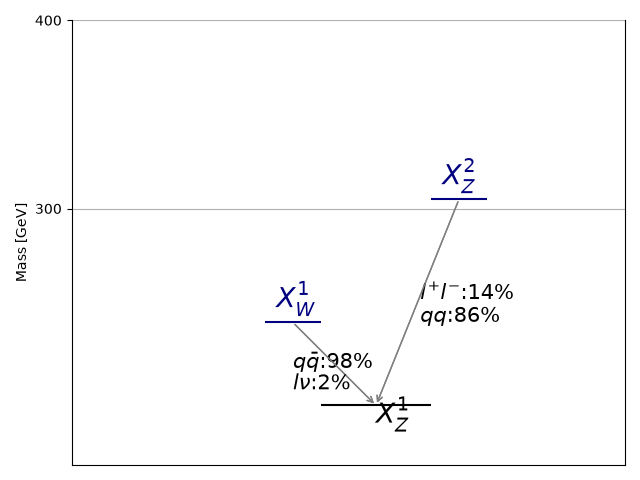
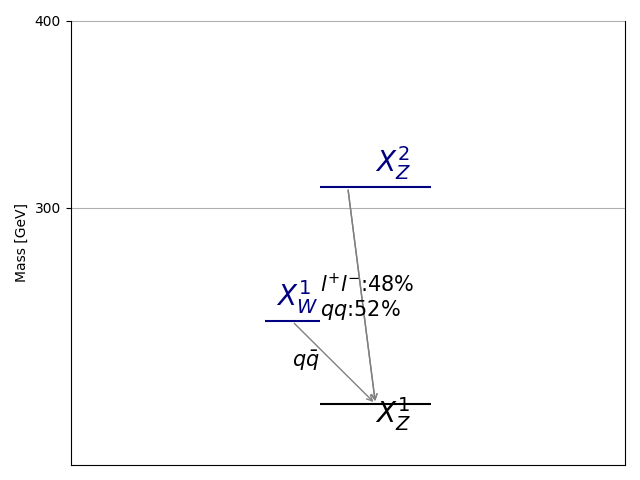
automated update by plotHiscore.py to rundir1_320:     K=-0.332 TL=15.52 walkerid=111

Changed region(s): [[0.0, 0.3125, 0.9688, 0.9062], [0.0625, 0.0312, 0.9688, 0.0625]]

diff --git a/protomodels/rundir1_320/rawnumbers.html b/protomodels/rundir1_320/rawnumbers.html
@@ -1,17 +1,11 @@
 <table>
 <tr><th>Analysis Name</th><th>Type</th><th>Dataset</th><th>Topos</th><th>Observed</th><th>Expected</th><th>Approx &sigma;</th><th>Particles</th>
 </tr>
-<tr><td><a href=https://atlas.web.cern.ch/Atlas/GROUPS/PHYSICS/PAPERS/EXOT-2018-06/>ATLAS-EXOT-2018-06</a></td><td>em</td> <td>EM10</td><td>TChiISR, TChiWISRll, TChiWWISRqq, TChiZISRqq</td><td>413</td><td>359.00 +/- 10.00</td><td style="text-align:right">2.5 &sigma;</td><td style="text-align:right">X<sup>1</sup><sub>W</sub>, X<sup>1</sup><sub>Z</sub></td></tr>
-<tr><td><a href=http://cms-results.web.cern.ch/cms-results/public-results/publications/EXO-20-004/>CMS-EXO-20-004</a></td><td>comb</td> <td>-</td><td>TChiISR, TChiWISRll, TChiWWISRqq, TChiZISRqq</td><td> 9e+01 fb </td><td> 7e+01 fb</td><td style="text-align:right">2.1 &sigma;</td><td style="text-align:right">X<sup>1</sup><sub>W</sub>, X<sup>1</sup><sub>Z</sub></td></tr>
+<tr><td><a href=https://atlas.web.cern.ch/Atlas/GROUPS/PHYSICS/PAPERS/EXOT-2018-06/>ATLAS-EXOT-2018-06</a></td><td>em</td> <td>EM10</td><td>TChiISR, TChiWISRll, TChiWWISRqq, TChiZISRqq</td><td>413</td><td>359.00 +/- 10.00</td><td style="text-align:right">2.5 &sigma;</td><td style="text-align:right">X<sup>1</sup><sub>W</sub>, X<sup>2</sup><sub>Z</sub>, X<sup>1</sup><sub>Z</sub></td></tr>
+<tr><td><a href=http://cms-results.web.cern.ch/cms-results/public-results/publications/EXO-20-004/>CMS-EXO-20-004</a></td><td>comb</td> <td>-</td><td>TChiISR, TChiWISRll, TChiWWISRqq, TChiZISRqq</td><td> 9e+01 fb </td><td> 7e+01 fb</td><td style="text-align:right">2.1 &sigma;</td><td style="text-align:right">X<sup>1</sup><sub>W</sub>, X<sup>2</sup><sub>Z</sub>, X<sup>1</sup><sub>Z</sub></td></tr>
 <tr><td><a href=https://atlas.web.cern.ch/Atlas/GROUPS/PHYSICS/PAPERS/SUSY-2016-07/>ATLAS-SUSY-2016-07</a></td><td>em</td> <td>2j_Meff_2100</td><td>T1</td><td>190</td><td>153.00 +/- 14.00</td><td style="text-align:right">1.9 &sigma;</td><td style="text-align:right">X<sup>1</sup><sub>W</sub>, X<sup>1</sup><sub>Z</sub></td></tr>
 <tr><td><a href=https://atlas.web.cern.ch/Atlas/GROUPS/PHYSICS/PAPERS/SUSY-2013-02/>ATLAS-SUSY-2013-02</a></td><td>em</td> <td>SR3j</td><td>T1</td><td>7</td><td>5.00 +/- 1.20</td><td style="text-align:right">0.7 &sigma;</td><td style="text-align:right">X<sup>1</sup><sub>W</sub>, X<sup>1</sup><sub>Z</sub></td></tr>
 <tr><td><a href=https://atlas.web.cern.ch/Atlas/GROUPS/PHYSICS/PAPERS/SUSY-2013-11/>ATLAS-SUSY-2013-11</a></td><td>em</td> <td>WWb-DF</td><td>TChiWWoff</td><td>17</td><td>18.10 +/- 2.60</td><td style="text-align:right">-0.3 &sigma;</td><td style="text-align:right">X<sup>1</sup><sub>W</sub>, X<sup>1</sup><sub>Z</sub></td></tr>
 </table>
 <table style='color:grey'>
-<tr><th>Not in Best Combo</th><th>Type</th><th>Dataset</th><th>Topos</th><th>Observed</th><th>Expected</th><th>Approx &sigma;</th><th>Particles</th><tr><td><a href=https://atlas.web.cern.ch/Atlas/GROUPS/PHYSICS/CONFNOTES/ATLAS-CONF-2013-047/>ATLAS-CONF-2013-047</a></td><td>em</td> <td>A Loose</td><td>T1</td><td>5333</td><td>4700.00 +/- 500.00</td><td style="text-align:right">1.2 &sigma;</td><td style="text-align:right">X<sup>2</sup><sub>Z</sub>, X<sup>1</sup><sub>Z</sub></td></tr>
-<tr><td><a href=http://cms-results.web.cern.ch/cms-results/public-results/publications/SUS-16-033/index.html>CMS-SUS-16-033</a></td><td>em</td> <td>SR1_Njet2_Nb0_H ...</td><td>T1</td><td>7838</td><td>7584.00 +/- 433.00</td><td style="text-align:right">0.6 &sigma;</td><td style="text-align:right">X<sup>2</sup><sub>Z</sub>, X<sup>1</sup><sub>Z</sub></td></tr>
-<tr><td><a href=https://atlas.web.cern.ch/Atlas/GROUPS/PHYSICS/CONFNOTES/ATLAS-CONF-2013-047/>ATLAS-CONF-2013-047</a></td><td>em</td> <td>C Medium</td><td>T1</td><td>228</td><td>210.00 +/- 40.00</td><td style="text-align:right">0.4 &sigma;</td><td style="text-align:right">X<sup>2</sup><sub>Z</sub>, X<sup>1</sup><sub>Z</sub></td></tr>
-<tr><td><a href=http://cms-results.web.cern.ch/cms-results/public-results/publications/SUS-19-006/index.html>CMS-SUS-19-006-agg</a></td><td>comb</td> <td>-</td><td>T1</td><td> 5 fb </td><td> 5 fb</td><td style="text-align:right">0.3 &sigma;</td><td style="text-align:right">X<sup>2</sup><sub>Z</sub>, X<sup>1</sup><sub>Z</sub></td></tr>
-<tr><td><a href=http://cms-results.web.cern.ch/cms-results/public-results/publications/SUS-16-033/index.html>CMS-SUS-16-033</a></td><td>em</td> <td>SR3_Njet5_Nb0_H ...</td><td>T1</td><td>819</td><td>806.00 +/- 57.00</td><td style="text-align:right">0.2 &sigma;</td><td style="text-align:right">X<sup>2</sup><sub>Z</sub>, X<sup>1</sup><sub>Z</sub></td></tr>
-<tr><td><a href=http://cms-results.web.cern.ch/cms-results/public-results/publications/SUS-16-033/index.html>CMS-SUS-16-033</a></td><td>em</td> <td>SR11_Njet7_Nb1_ ...</td><td>T1</td><td>890</td><td>969.00 +/- 80.00</td><td style="text-align:right">-0.9 &sigma;</td><td style="text-align:right">X<sup>2</sup><sub>Z</sub>, X<sup>1</sup><sub>Z</sub></td></tr>
-</table>
+<tr><th>Not in Best Combo</th><th>Type</th><th>Dataset</th><th>Topos</th><th>Observed</th><th>Expected</th><th>Approx &sigma;</th><th>Particles</th></table>

diff --git a/protomodels/rundir1_320/index.html b/protomodels/rundir1_320/index.html
@@ -1,27 +1,27 @@
 <html>
 <body>
 <center>
-<table><td><h1>Current best protomodel: <i>K</i>=4.90, <i>TL</i>=14.80</h1><td><img height=60px src=https://smodels.github.io//protomodels/logos/protomodel_lego.png></table>
+<table><td><h1>Current best protomodel: <i>K</i>=-0.33, <i>TL</i>=15.52</h1><td><img height=60px src=https://smodels.github.io//protomodels/logos/protomodel_lego.png></table>
 </center>
-<b><a href=./hiscore.slha>ProtoModel</a> <a href=./pmodel.dict>(dict)</a> produced with <a href=https://smodels.github.io//docs/Validation320>database v3.2.0</a>, allowed_extr 0.0 in walker 111 step 89.</b> <br>
+<b><a href=./hiscore.slha>ProtoModel</a> <a href=./pmodel.dict>(dict)</a> produced with <a href=https://smodels.github.io//docs/Validation320>database v3.2.0</a>, allowed_extr 0.0 in walker 111 step 127.</b> <br>
 <table width=80%>
 <tr><td>
 <br><b>Critics:</b> passed both critics<br>
-<br><b>UL Critic: 1/1 analyses exclude</b><br>
-ATLAS-EXOT-2018-06:EM5:: <span style='color: darkred;'>r<sub>obs</sub>=1.463, r<sub>exp</sub>=1.516</span><br>
-ATLAS-SUSY-2016-07:5j_Meff_1700:: <span style='color: darkgreen;'>r<sub>obs</sub>=0.475, r<sub>exp</sub>=0.632</span><br>
-CMS-EXO-20-004:SR_2018_13:: <span style='color: darkgreen;'>r<sub>obs</sub>=0.296, r<sub>exp</sub>=0.398</span><br>
-<br><b>LLHD Critic:</b> ATLAS-EXOT-2018-06:EM5, CMS-EXO-20-004:matrix.cov, ATLAS-SUSY-2016-07:5j_Meff_1700, ATLAS-SUSY-2013-02:SR4jlm:: <span style='color: darkred;'>r<sub>obs</sub>=1.21, r<sub>exp</sub>=2.47</span><br>
+<br><b>UL Critic: 1/2 analyses exclude</b><br>
+ATLAS-EXOT-2018-06:EM5:: <span style='color: darkred;'>r<sub>obs</sub>=1.403, r<sub>exp</sub>=1.453</span><br>
+ATLAS-SUSY-2016-07:5j_Meff_1700:: <span style='color: darkgreen;'>r<sub>obs</sub>=0.667, r<sub>exp</sub>=0.887</span><br>
+CMS-EXO-20-004:SR_2018_14:: <span style='color: darkgreen;'>r<sub>obs</sub>=0.317, r<sub>exp</sub>=0.405</span><br>
+<br><b>LLHD Critic:</b> ATLAS-EXOT-2018-06:EM5, CMS-EXO-20-004:matrix.cov, ATLAS-SUSY-2016-07:5j_Meff_1700, ATLAS-SUSY-2013-02:SR4jlm:: <span style='color: darkred;'>r<sub>obs</sub>=1.21, r<sub>exp</sub>=2.53</span><br>
 </ul>
-<td><img width=600px src=./texdoc.png?1792680986>
-<br><span style='font-size: smaller; color: darkred;'>Last updated: Thu Oct 22 16:56:26 2026</span>
-<br><br><b>11 predictions available. Highest r values are:</b><br><ul>
-<li><a href=https://atlas.web.cern.ch/Atlas/GROUPS/PHYSICS/PAPERS/EXOT-2018-06/>ATLAS-EXOT-2018-06</a>:EM5:TChiWISRll,TChiWWISRqq,TChiZISRqq,TChiISR r=1.46, r<sub>exp</sub>=1.52<br>
-<li><a href=https://atlas.web.cern.ch/Atlas/GROUPS/PHYSICS/PAPERS/SUSY-2016-07/>ATLAS-SUSY-2016-07</a>:5j_Meff_1700:T1 r=0.48, r<sub>exp</sub>=0.63<br>
-<li><a href=http://cms-results.web.cern.ch/cms-results/public-results/publications/EXO-20-004/>CMS-EXO-20-004</a>:SR_2018_13:TChiWISRll,TChiWWISRqq,TChiZISRqq,TChiISR r=0.30, r<sub>exp</sub>=0.40<br>
-<li><a href=https://atlas.web.cern.ch/Atlas/GROUPS/PHYSICS/PAPERS/SUSY-2013-02/>ATLAS-SUSY-2013-02</a>:ul:T1 r=0.07, r<sub>exp</sub>=N/A<br>
+<td><img width=600px src=./texdoc.png?1792682559>
+<br><span style='font-size: smaller; color: darkred;'>Last updated: Thu Oct 22 17:22:39 2026</span>
+<br><br><b>7 predictions available. Highest r values are:</b><br><ul>
+<li><a href=https://atlas.web.cern.ch/Atlas/GROUPS/PHYSICS/PAPERS/EXOT-2018-06/>ATLAS-EXOT-2018-06</a>:EM5:TChiISR,TChiZISRqq,TChiWISRll,TChiWWISRqq r=1.40, r<sub>exp</sub>=1.45<br>
+<li><a href=https://atlas.web.cern.ch/Atlas/GROUPS/PHYSICS/PAPERS/SUSY-2016-07/>ATLAS-SUSY-2016-07</a>:5j_Meff_1700:T1 r=0.67, r<sub>exp</sub>=0.89<br>
+<li><a href=http://cms-results.web.cern.ch/cms-results/public-results/publications/EXO-20-004/>CMS-EXO-20-004</a>:SR_2018_14:TChiISR,TChiZISRqq,TChiWISRll,TChiWWISRqq r=0.32, r<sub>exp</sub>=0.41<br>
+<li><a href=https://atlas.web.cern.ch/Atlas/GROUPS/PHYSICS/PAPERS/SUSY-2013-02/>ATLAS-SUSY-2013-02</a>:ul:T1 r=0.09, r<sub>exp</sub>=N/A<br>
 </table><table style="width:80%">
-<td width=40%><img height=450px src=./mass_hierarchy.png?1792680986><td width=60%><font size=-3><iframe type="text/html" height="350px" width="100%" frameborder="0" src="./rawnumbers.html?1792680986"></iframe></font>
+<td width=40%><img height=450px src=./mass_hierarchy.png?1792682559><td width=60%><font size=-3><iframe type="text/html" height="350px" width="100%" frameborder="0" src="./rawnumbers.html?1792682559"></iframe></font>
 </table>
 </body>
 </html>
